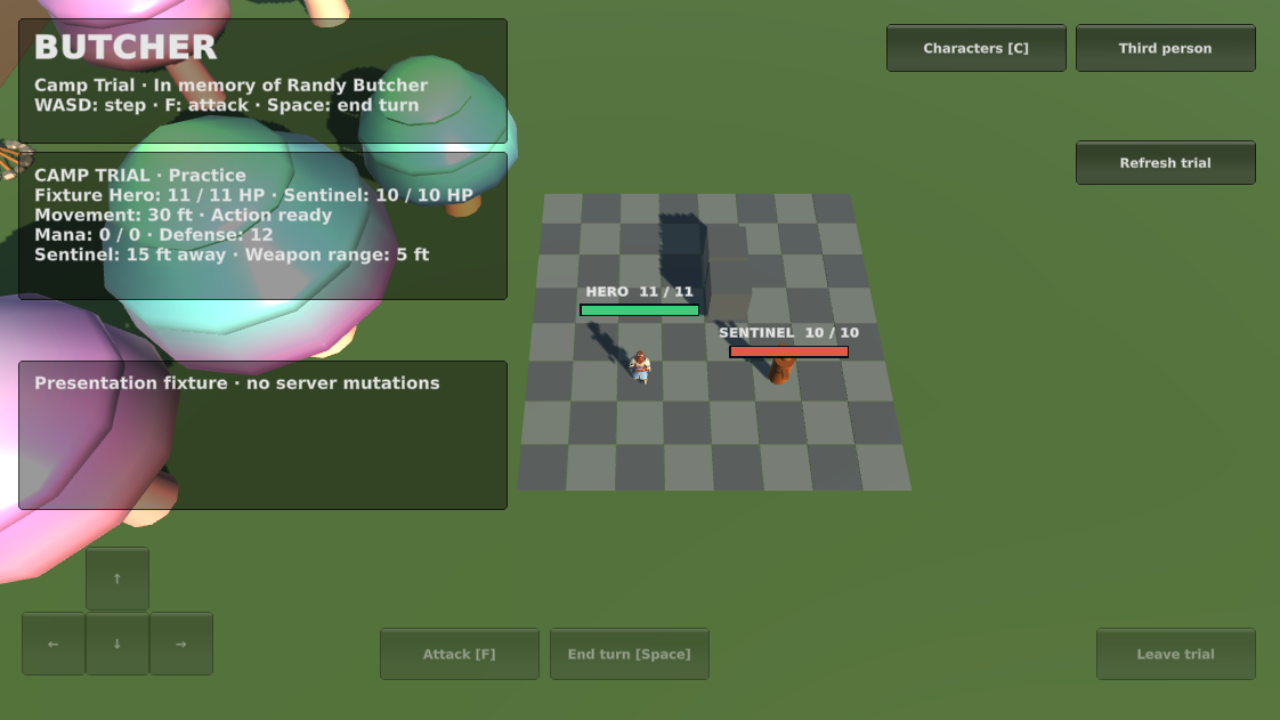
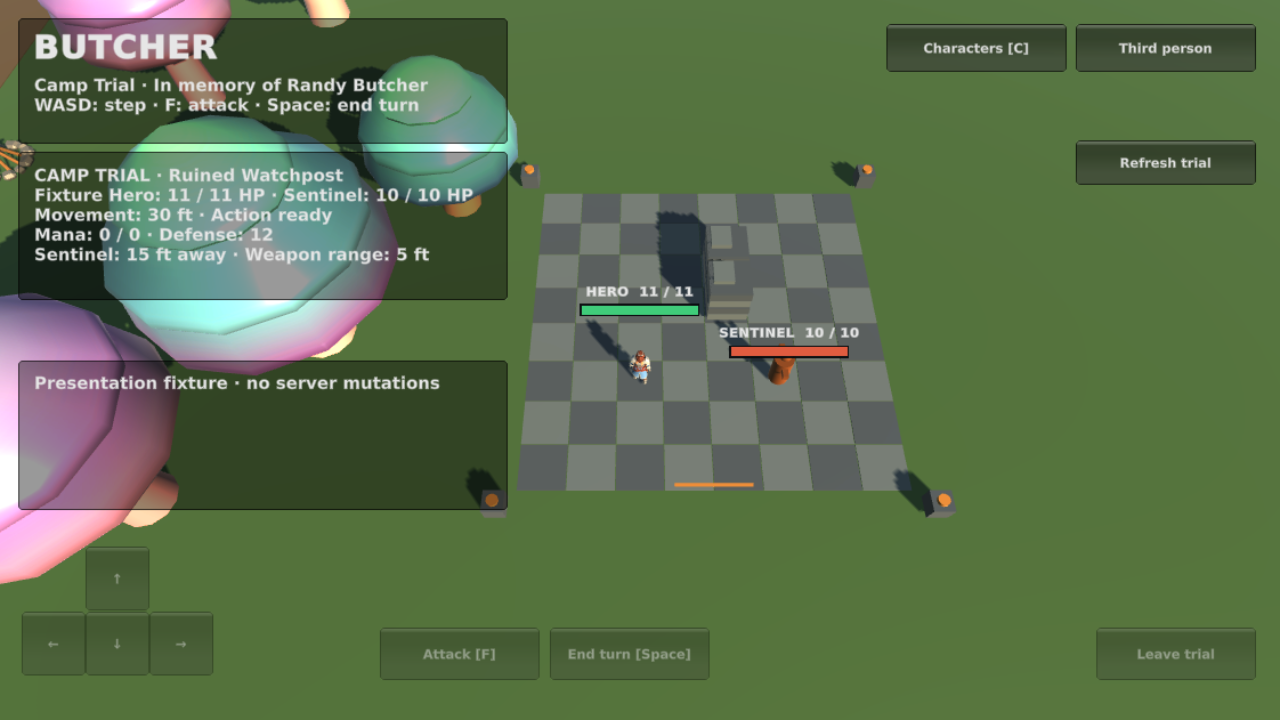
Customize hero builds and dress the Ruined Watchpost trial

diff --git a/unity/Butcher/Assets/Butcher/Runtime/ButcherCharacterMenu.cs b/unity/Butcher/Assets/Butcher/Runtime/ButcherCharacterMenu.cs
@@ -1,5 +1,6 @@
 using System;
 using System.Collections;
+using System.Collections.Generic;
 using System.Text;
 using UnityEngine;
 using UnityEngine.Networking;
@@ -13,6 +14,20 @@ namespace Imperial.Butcher
         const string Publishable = "sb_publishable_9uFdh-OL4yAWtPPKNSZLPA_aVM5daBS";
         static readonly string[] Archetypes = { "vanguard", "spellweaver", "oathkeeper", "wildscout" };
         static readonly string[] Origins = { "ridgeborn", "tideborn", "emberkin", "stonebound" };
+        static readonly string[] AbilityLabels = { "Strength", "Dexterity", "Constitution", "Intelligence", "Wisdom", "Charisma" };
+        static readonly int[][] StarterScores = {
+            new[] { 15, 14, 13, 12, 10, 8 }, new[] { 8, 12, 13, 15, 10, 14 },
+            new[] { 15, 10, 13, 8, 12, 14 }, new[] { 10, 15, 13, 12, 14, 8 }
+        };
+        // Matches the lab's level-one archetype proficiency lists.
+        static readonly string[][] SkillOptions = {
+            new[] { "athletics", "perception", "insight", "survival" },
+            new[] { "arcana", "lore", "insight", "perception" },
+            new[] { "athletics", "medicine", "insight", "persuasion" },
+            new[] { "stealth", "survival", "acrobatics", "foraging", "perception" }
+        };
+        int[] draftScores = (int[])StarterScores[0].Clone();
+        readonly List<string> draftSkills = new List<string> { SkillOptions[0][0], SkillOptions[0][1] };
         ButcherWorld world;
         string email = "", password = "", session = "", heroName = "New Hero";
         string message = "Preview an appearance, or sign in to the Butcher lab to save a hero.";
@@ -106,8 +121,13 @@ namespace Imperial.Butcher
                 GUILayout.Label("Origin: " + Origins[origin]);
                 if (GUILayout.Button("Change origin", GUILayout.Height(30))) origin = (origin + 1) % Origins.Length;
                 GUILayout.Label("Archetype: " + Archetypes[archetype]);
-                if (GUILayout.Button("Change archetype", GUILayout.Height(30))) archetype = (archetype + 1) % Archetypes.Length;
-                GUILayout.Label("Uses a starter ability array and two suggested skills. Detailed stat assignment comes later.");
+                if (GUILayout.Button("Change archetype", GUILayout.Height(30)))
+                {
+                    archetype = (archetype + 1) % Archetypes.Length;
+                    ResetBuildChoices();
+                }
+                DrawBuildChoices();
+                GUI.enabled = !busy && draftSkills.Count == 2;
                 if (GUILayout.Button("Save new hero", GUILayout.Height(38))) CreateCharacter();
             }
             GUI.enabled = true;
@@ -115,6 +135,39 @@ namespace Imperial.Butcher
             GUILayout.EndScrollView();
             GUILayout.EndArea();
             GUI.skin = previousSkin;
+        }
+
+        void ResetBuildChoices()
+        {
+            draftScores = (int[])StarterScores[archetype].Clone();
+            draftSkills.Clear();
+            draftSkills.Add(SkillOptions[archetype][0]);
+            draftSkills.Add(SkillOptions[archetype][1]);
+        }
+
+        void DrawBuildChoices()
+        {
+            GUILayout.Label("Ability scores · Swap scores between abilities.");
+            for (int i = 0; i < AbilityLabels.Length; i++)
+            {
+                int next = (i + 1) % AbilityLabels.Length;
+                GUILayout.BeginHorizontal();
+                GUILayout.Label(AbilityLabels[i] + "  " + draftScores[i]);
+                if (GUILayout.Button("Swap with " + AbilityLabels[next], GUILayout.Width(225), GUILayout.Height(30)))
+                    (draftScores[i], draftScores[next]) = (draftScores[next], draftScores[i]);
+                GUILayout.EndHorizontal();
+            }
+            GUILayout.Label("Skill proficiencies · Choose two (" + draftSkills.Count + "/2)");
+            foreach (string skill in SkillOptions[archetype])
+            {
+                bool chosen = draftSkills.Contains(skill);
+                GUI.enabled = !busy && (chosen || draftSkills.Count < 2);
+                bool selected = GUILayout.Toggle(chosen, char.ToUpperInvariant(skill[0]) + skill.Substring(1), GUILayout.Height(28));
+                if (selected && !chosen) draftSkills.Add(skill);
+                if (!selected && chosen) draftSkills.Remove(skill);
+            }
+            GUI.enabled = !busy;
+            if (GUILayout.Button("Restore archetype defaults", GUILayout.Height(30))) ResetBuildChoices();
         }
 
         public void CheckConnection() { if (!busy) StartCoroutine(Probe()); }
@@ -180,20 +233,15 @@ namespace Imperial.Butcher
 
         void CreateCharacter()
         {
+            if (draftSkills.Count != 2) return;
             var data = new CharacterBuild {
                 name = heroName.Trim(), originId = Origins[origin], archetypeId = Archetypes[archetype],
-                abilityScores = new AbilityScores(), proficientSkills = new[] { "athletics", "perception" }
+                abilityScores = new AbilityScores {
+                    strength = draftScores[0], dexterity = draftScores[1], constitution = draftScores[2],
+                    intelligence = draftScores[3], wisdom = draftScores[4], charisma = draftScores[5]
+                },
+                proficientSkills = draftSkills.ToArray()
             };
-            if (archetype == 1) {
-                data.abilityScores = new AbilityScores { strength = 8, dexterity = 12, constitution = 13, intelligence = 15, wisdom = 10, charisma = 14 };
-                data.proficientSkills = new[] { "arcana", "lore" };
-            } else if (archetype == 2) {
-                data.abilityScores = new AbilityScores { strength = 15, dexterity = 10, constitution = 13, intelligence = 8, wisdom = 12, charisma = 14 };
-                data.proficientSkills = new[] { "athletics", "medicine" };
-            } else if (archetype == 3) {
-                data.abilityScores = new AbilityScores { strength = 10, dexterity = 15, constitution = 13, intelligence = 12, wisdom = 14, charisma = 8 };
-                data.proficientSkills = new[] { "stealth", "survival" };
-            }
             string payload = JsonUtility.ToJson(data);
             if (payload != pendingPayload) { pendingPayload = payload; pendingRequestId = Guid.NewGuid().ToString(); }
             var request = new CreateRequest { requestId = pendingRequestId, character = data };

diff --git a/unity/Butcher/Assets/Butcher/Runtime/ButcherCombatController.cs b/unity/Butcher/Assets/Butcher/Runtime/ButcherCombatController.cs
@@ -236,8 +236,31 @@ namespace Imperial.Butcher
             foreach (var key in map.blockedCells ?? Array.Empty<string>())
             {
                 var parts = key.Split(',');
-                if (parts.Length==2 && int.TryParse(parts[0],out int x) && int.TryParse(parts[1],out int y))
-                    Primitive("Trial obstacle",PrimitiveType.Cube,Position(new GridPosition{x=x,y=y})+Vector3.up*.8f,new Vector3(1.35f,1.6f,1.35f),stone,arena.transform);
+                if (parts.Length != 2 || !int.TryParse(parts[0], out int x) || !int.TryParse(parts[1], out int y)) continue;
+                var cell = Position(new GridPosition { x=x, y=y });
+                Primitive("Trial obstacle", PrimitiveType.Cube, cell + Vector3.up*.8f,
+                    new Vector3(1.35f,1.6f,1.35f), stone, arena.transform);
+                for (int course=0; course<4; course++)
+                {
+                    float inset = course % 2 == 0 ? .04f : 0;
+                    Primitive("Watchpost masonry", PrimitiveType.Cube, cell + Vector3.up*(.2f+.4f*course),
+                        new Vector3(1.43f-inset,.35f,1.43f-inset), course % 2 == 0 ? light : stone, arena.transform, collides:false);
+                }
+                Primitive("Broken capstone", PrimitiveType.Cube, cell + new Vector3(-.23f,1.69f,.13f),
+                    new Vector3(.7f,.18f,.85f), light, arena.transform, collides:false);
+            }
+            var bronze = Mat(new Color(.78f,.48f,.19f));
+            var threshold = ArenaOrigin + new Vector3((map.width-1)*Tile*.5f, -.064f, -Tile*.38f);
+            Primitive("Watchpost entry inlay", PrimitiveType.Cube, threshold,
+                new Vector3(Tile*1.6f,.015f,.12f), bronze, arena.transform, collides:false);
+            foreach (float x in new[] { -Tile*.85f, (map.width-.15f)*Tile })
+            foreach (float z in new[] { -Tile*.85f, (map.height-.15f)*Tile })
+            {
+                var corner = ArenaOrigin + new Vector3(x,0,z);
+                Primitive("Watchpost boundary plinth", PrimitiveType.Cube, corner + Vector3.up*.32f,
+                    new Vector3(.65f,.64f,.65f), stone, arena.transform, collides:false);
+                Primitive("Watchpost bronze marker", PrimitiveType.Cylinder, corner + Vector3.up*.69f,
+                    new Vector3(.36f,.07f,.36f), bronze, arena.transform, collides:false);
             }
             enemy = new GameObject("Camp Sentinel"); enemy.transform.SetParent(arena.transform);
             var motion = new GameObject("Sentinel motion").transform; motion.SetParent(enemy.transform,false);
@@ -247,11 +270,17 @@ namespace Imperial.Butcher
             feedback = arena.AddComponent<ButcherTrialFeedback>(); feedback.Configure(motion);
         }
         Material Mat(Color color) { var material = new Material(Shader.Find("Universal Render Pipeline/Lit")) { color=color }; materials.Add(material); return material; }
-        static void Primitive(string name, PrimitiveType type, Vector3 position, Vector3 scale, Material material, Transform parent, bool local=false)
+        static void Primitive(string name, PrimitiveType type, Vector3 position, Vector3 scale, Material material, Transform parent, bool local=false, bool collides=true)
         {
             var obj=GameObject.CreatePrimitive(type);obj.name=name;obj.transform.SetParent(parent,false);
             if (local) obj.transform.localPosition=position; else obj.transform.position=position;
             obj.transform.localScale=scale;obj.GetComponent<Renderer>().sharedMaterial=material;
+            if (!collides)
+            {
+                var collider = obj.GetComponent<Collider>();
+                collider.enabled = false;
+                Destroy(collider);
+            }
         }
         void ReleaseArena()
         {
@@ -284,7 +313,7 @@ namespace Imperial.Butcher
             var hero=Actor("hero");var hostile=Actor("sentinel");
             GUI.Box(new Rect(18,152,490,148),"");
             string range = hero.weapon == null ? "No weapon" : "Weapon range: " + hero.weapon.rangeFeet + " ft";
-            GUI.Label(new Rect(34,162,456,136),"CAMP TRIAL · Practice\n"+hero.name+": "+hero.hitPoints+" / "+hero.maxHitPoints+" HP · Sentinel: "+hostile.hitPoints+" / "+hostile.maxHitPoints+" HP\nMovement: "+hero.movementRemainingFeet+" ft · "+(hero.actionUsed?"Action used":"Action ready")+"\nMana: "+hero.mana+" / "+hero.maxMana+" · Defense: "+hero.armorClass+(hero.wardArmorBonus>0?" (ward active)":"")+"\nSentinel: "+DistanceFeet(hero,hostile)+" ft away · "+range,text);
+            GUI.Label(new Rect(34,162,456,136),"CAMP TRIAL · Ruined Watchpost\n"+hero.name+": "+hero.hitPoints+" / "+hero.maxHitPoints+" HP · Sentinel: "+hostile.hitPoints+" / "+hostile.maxHitPoints+" HP\nMovement: "+hero.movementRemainingFeet+" ft · "+(hero.actionUsed?"Action used":"Action ready")+"\nMana: "+hero.mana+" / "+hero.maxMana+" · Defense: "+hero.armorClass+(hero.wardArmorBonus>0?" (ward active)":"")+"\nSentinel: "+DistanceFeet(hero,hostile)+" ft away · "+range,text);
             GUI.Box(new Rect(18,360,490,150),"");
             GUI.Label(new Rect(34,370,456,130),notice+"\n"+string.Join("\n",recent.ToArray()),text);
             if (snapshot.encounter.state.phase=="completed")

diff --git a/unity/Butcher/Tools/verify_trial.py b/unity/Butcher/Tools/verify_trial.py
@@ -51,7 +51,7 @@ try:
      && (string)step.Invoke(c, new object[] { hero, 5, 2 }) == "The sentinel blocks that step.";
  ''')
  assert evaluate('return UnityEngine.Object.FindFirstObjectByType<Imperial.Butcher.ButcherCombatController>().InTrial;')
- assert evaluate('return UnityEngine.GameObject.Find("Camp Trial Arena").GetComponentsInChildren<UnityEngine.Renderer>().Length;')==69
+ assert evaluate('var a=UnityEngine.GameObject.Find("Camp Trial Arena");return a.GetComponentsInChildren<UnityEngine.Collider>().Length == 69 && UnityEngine.GameObject.Find("Broken capstone") != null && UnityEngine.GameObject.Find("Watchpost bronze marker") != null;')
  evaluate('UnityEngine.Object.FindFirstObjectByType<Imperial.Butcher.ButcherCombatController>().GetType().GetField("notice",System.Reflection.BindingFlags.NonPublic|System.Reflection.BindingFlags.Instance).SetValue(UnityEngine.Object.FindFirstObjectByType<Imperial.Butcher.ButcherCombatController>(),"Presentation fixture · no server mutations");return "Fixture labelled";')
  frames();run('capture','game_view','--','--source','screen','--save_path','Screenshots/Trial-Arena.png')
  state['revision']=1;hero['position']={'x':4,'y':2};hero['movementRemainingFeet']=20
